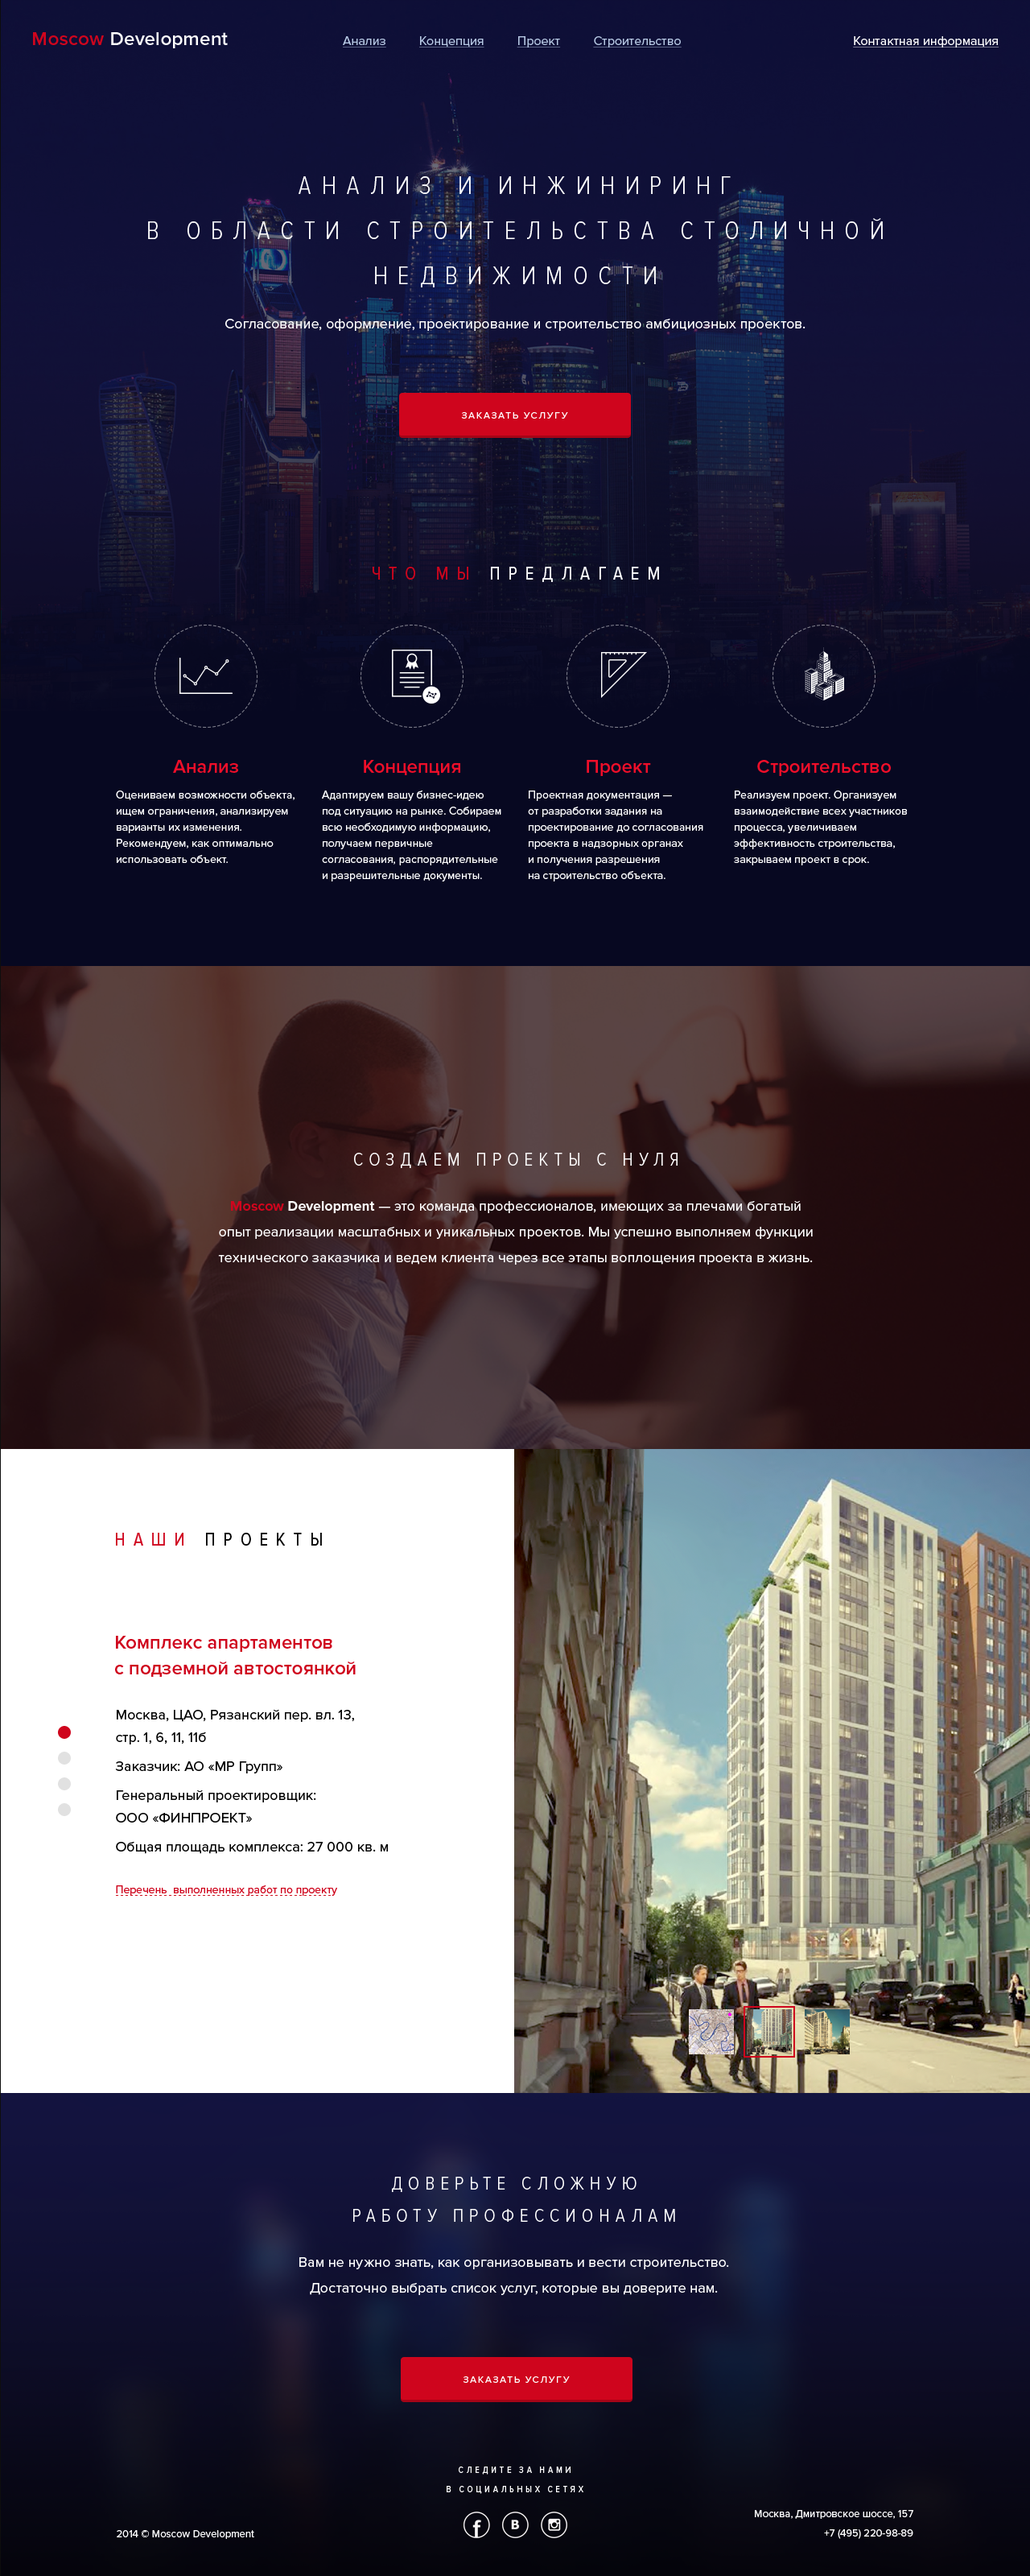
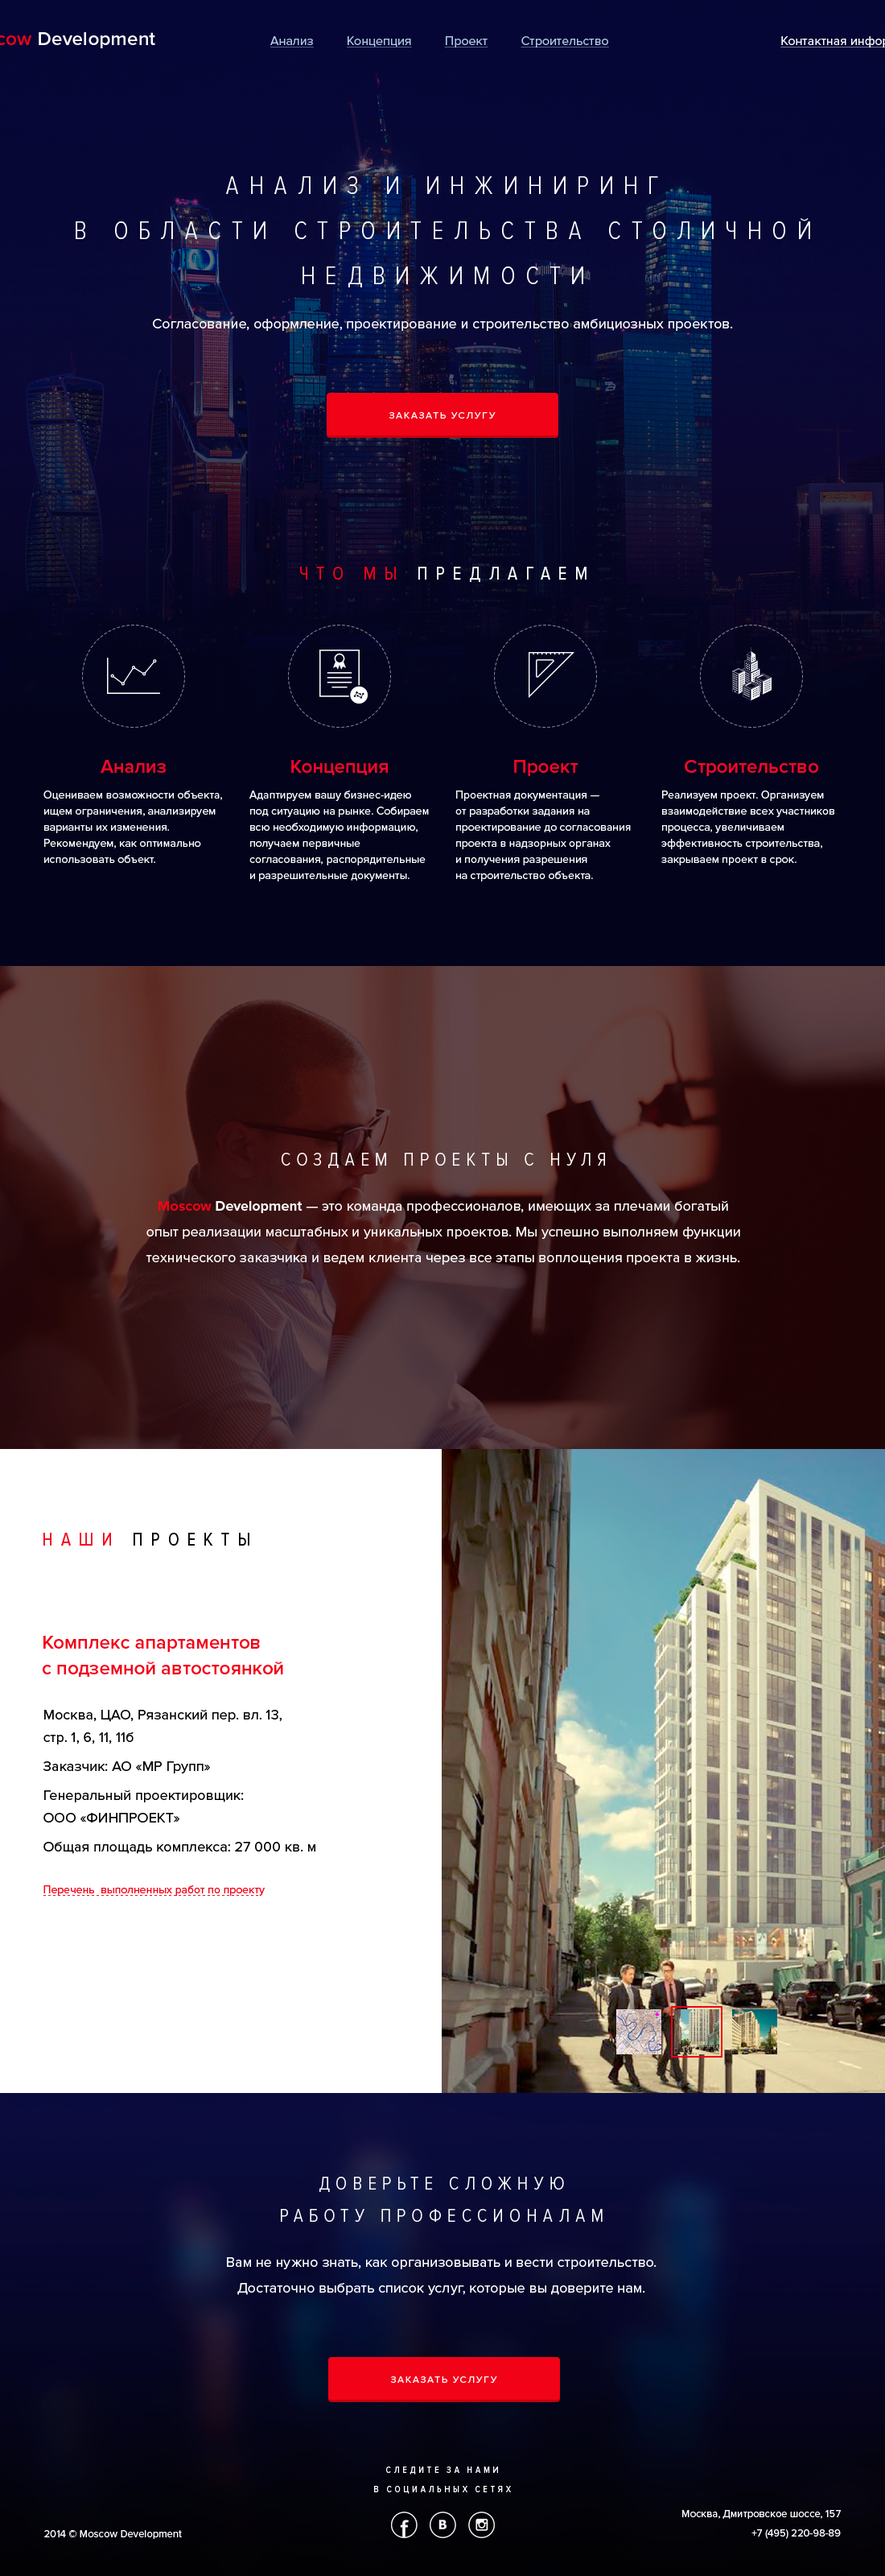
init

diff --git a/index.html b/index.html
@@ -13,6 +13,7 @@
   <link href="./css/slick.css" rel="stylesheet">
   <link href="./css/slick-theme.css" rel="stylesheet">
   <script src="./js/slick.min.js" type="text/javascript"></script>
+  <script src="./js/app.js" type="text/javascript"></script>
   <script src="./js/pixp.js" type="text/javascript"></script>
   <script src="./js/jquery.placeholder.min.js" type="text/javascript"></script>
 </head>
@@ -140,10 +141,11 @@
                     ООО "ФИНПРОЕКТ"<br>
                     Общая площадь коплекса:27 000 кв.м
                   </div>
-                  <span class="show-portfolio">Перечень выполненных работ по проекту</span>
+                  <span class="show-portfolio dashed">Перечень выполненных работ по проекту</span>
                 </div>
               </div>
               <div class="portfolio-right-block">
+                <div class="close-portfolio"></div>
                 <div class="fotorama" 
                   data-max-width="100%"  
                   data-max-height="100%"
@@ -151,33 +153,49 @@
                   data-fit="cover"
                   data-thumbmargin="12">
                   <img src="./images/photo-portfolio.jpg">
-                  <img src="./images/pf-1.jpg">
+                  <img src="./images/photo-portfolio2.jpg">
+                </div>
+                <div class="portfolio-descr-text">
+                  <ul>
+                    <li>Орагнизация и провдение</li>
+                    <li>Орагнизация и провдение</li>
+                    <li>Орагнизация и провдение</li>
+                    <li>Орагнизация и провдение</li>
+                    <li>Орагнизация и провдение</li>
+                  <ul>
+                  <ul>
+                    <li>Орагнизация и провдение</li>
+                  <ul>
                 </div>
               </div>
             </div>
             <div class="portfolio-item">
               <div class="portfolio-left-block">
                 <div class="portfolio-content slider-left-pos">
-                  <h3 class="portfolio-name">Комплекс апартаментов сподземной автостоянкой</h3>
+                  <h3 class="portfolio-name">Элемент 2 текст текст</h3>
                   <div class="portfolio-text">
-                    Москва, ЦФО, Рязанский пер.вл. 13, стр.1,6,11,11б<br>
-                    Заказчик: АО "МР Групп"<br>
+                    Москва, ЦФО текст,  пер.вл. 13, стр.1,6,11,4545454<br>
+                    Заказчик: АО "МР 4545"<br>
                     Генеральный проектировщик:
-                    ООО "ФИНПРОЕКТ"<br>
+                    ООО "4545"<br>
                     Общая площадь коплекса:27 000 кв.м
                   </div>
-                  <span class="show-portfolio">Перечень выполненных работ по проекту</span>
+                  <span class="show-portfolio dashed">Перечень выполненных работ по проекту</span>
                 </div>
               </div>
               <div class="portfolio-right-block">
+                <div class="close-portfolio"></div>
                 <div class="fotorama" 
                   data-max-width="100%"  
                   data-max-height="100%"
                   data-nav="thumbs"
                   data-fit="cover"
                   data-thumbmargin="12">
+                  <img src="./images/photo-portfolio3.jpg">
                   <img src="./images/photo-portfolio.jpg">
-                  <img src="./images/pf-1.jpg">
+                </div>
+                <div class="portfolio-descr-text">
+                  Текст описание
                 </div>
               </div>
             </div>            
@@ -194,17 +212,28 @@
       arrows:false,
       dots: true,
       dotsClass:'slider-left-pos pagin',
-      afterChange:setLeftPos,
     })
-    setLeftPos();
-    function setLeftPos(){
-      var w = innerWidth/2;
-      var w2 = $('.wrapper').first().width()/2
-      var res = w-w2;
-      var curLeft;
-       $('.slider-left-pos').each(function(key,value){
-       curLeft = $(value).position().left;
-       $(value).css("left",curLeft+res+"px");
+    $('.show-portfolio').click(function(){
+      showPortfolioContent();
+    });
+    $('.close-portfolio').click(function(){
+      showPortfolioContent();
+    });
+    function showPortfolioContent(){
+      var elem = $('.portfolio-descr-text');
+      var textStartAnim = 'Перечень выполненных работ по проекту';
+      var textCompliteAnim = 'Графические материалы';
+      $('.fotorama').fadeToggle({
+        start:function(){
+          elem.hide();
+          $('.show-portfolio').text(textStartAnim);
+        },
+        complete:function(){
+          if($('.fotorama').is(':hidden')){
+            $('.show-portfolio').text(textCompliteAnim);
+            elem.show();    
+          }
+        }
       });
     }
     </script>

diff --git a/css/style.css b/css/style.css
@@ -100,6 +100,17 @@ body {
 .logo {
     float: left;
 }
+.dashed {
+  background: -moz-linear-gradient(left, red, red 60%, transparent 60%);
+  background: -ms-linear-gradient(left, red, red 60%, transparent 60%);
+  background: -o-linear-gradient(left, red, red 60%, transparent 60%);
+  background: -webkit-gradient(linear, 0 0, 100% 0, from(red), color-stop(0.6, red), color-stop(0.6, transparent));
+  background: -webkit-linear-gradient(left, red, red 60%, transparent 60%);
+  background: linear-gradient(left, red, red 60%, transparent 60%);
+  background-size: 10px 1px;
+  background-repeat: repeat-x;
+  background-position: 0 90%;
+}
 /* Header
 -----------------------------------------------------------------------------*/
 .header {
@@ -272,7 +283,7 @@ body {
 
 /*start component portfolio main*/
 .portfolio-main-wrapper{
-  min-height: 300px;
+  min-height: 789px;
 }
 /*end compopnent portfolio main*/
 
@@ -329,6 +340,7 @@ body {
     float: left;
     width: 50%;
     position: relative;
+    min-height: 789px; 
 }
 .portfolio-content {
     padding-left: 95px;
@@ -348,12 +360,6 @@ body {
     line-height: 1.6em;
     margin-bottom: 40px;
 }
-.portfolio-item {
-    
-}
-.portfolio-list{
-    position: relative;
-}
 .portfolio-list .pagin {
     left: 0px;
     position: absolute;
@@ -363,18 +369,34 @@ body {
     float: right;
     width: 50%;
     right: 0;
- 
+    min-height: 789px; 
+    background-color: #f3f3f3;
 }
-
+.portfolio-descr-text ul {
+    list-style-image: url("../images/round.png");
+}
+.portfolio-descr-text ul li{
+  margin-bottom: 30px;
+}
+.close-portfolio{
+  width: 25px;
+  height: 25px;
+  cursor: pointer;
+  background-image: url('../images/close-ico.png');
+  background-repeat: no-repeat;
+  position: absolute;
+  top: 0px;
+  right: 0px;
+  margin-right: 20px;
+  margin-top: 50px;
+}
 .portfolio-item::after {
     clear: both;
     content: "";
     display: block;
 }
 .show-portfolio {
-    border-bottom: 1px dashed;
     color: #cf051d;
-    display: inline-block;
     cursor: pointer;
 }
 .p-slider-pagin {
@@ -393,6 +415,27 @@ body {
     border-color: #cf051d!important;
     
 }
+.portfolio-descr-text{
+  display: none;
+  background-color: #f3f3f3;
+  height: 100%;
+  padding-left: 60px;
+  padding-top: 110px;
+  font-size: 1.2em;
+}
+.slider-left-pos.pagin > li button {
+    background-color: #e1e1e1;
+    border: medium none;
+    border-radius: 100%;
+    font-size: 0;
+    height: 15px;
+    width: 15px;
+    cursor: pointer;
+}
+.slider-left-pos.pagin > li.slick-active button, .slider-left-pos.pagin > li button:hover {
+    background-color: #cf051d;
+}
+
 /*end component portfolio*/
 /* Footer
 -----------------------------------------------------------------------------*/
@@ -570,6 +613,26 @@ body {
     background: url("../images/bottom-bg-main-mini.jpg") no-repeat scroll center top;
     background-size: cover;
   }
+  .portfolio-main-wrapper, .portfolio-left-block, .portfolio-right-block{
+    min-height: 100px;
+  }
+  .portfolio-content {
+    padding-left: 60px;
+  }
+  .protfolio-head{
+    padding-left: 50px;
+    font-size:1.4em;
+  }
+  .portfolio-name {
+      color: #cf051d;
+      font-family: ProximaNova-Semibold;
+      font-size: 1.5em;
+      margin-top: 150px;
+      padding-bottom: 20px;
+  }
+  .portfolio-text{
+    font-size: 1.1em;
+  }
 }
 @media (max-width: 860px){
   .footer-cell, .footer-cell.bottom-adres, .footer-cell.coop{
@@ -584,6 +647,48 @@ body {
   .footer-cell.social-icons > div{
     display: block;
     width: 100%;
+  }
+}
+@media (max-width: 814px){
+  .protfolio-head{
+    margin-top: 20px;
+  }
+  .portfolio-name{
+    margin-top: 50px;
+    font-size: 1.3em;
+  }
+  .portfolio-list .pagin{
+    top: 100px;
+  }
+  .portfolio-content {
+      padding-left: 55px;
+      width: 75%;
+  }
+}
+@media (max-width: 660px){ 
+  .portfolio-left-block{
+      float: none;
+      width: 100%;
+      margin-bottom: 10px;
+  }
+  .portfolio-right-block{
+      float: none;
+      width: 100%; 
+  }
+  .portfolio-content{
+    width: 100%;
+    text-align: center;
+    padding-left: 0px;
+  }
+  .protfolio-head{
+    position: unset;
+    text-align: center;
+  }
+  .portfolio-name{
+    margin-top: 20px;
+  }
+  .portfolio-text{
+    margin-bottom: 20px;
   }
 }
 @media (max-width: 500px){

diff --git a/js/app.js b/js/app.js
@@ -1,0 +1,26 @@
+_app = function(){
+  return{
+    setLeftPos:function(){
+      var w = innerWidth/2;
+      var w2 = $('.wrapper').first().width()/2
+      var res = w-w2;
+      var curLeft;
+       $('.slider-left-pos').each(function(key,value){
+          curLeft = $(value).position().left;
+          $(value).css("left",res+"px");
+        });
+    }
+  }
+};
+$(document).ready(function(){
+   _app().setLeftPos();
+
+  window.onresize = function(){
+
+    _app().setLeftPos();
+
+  }
+})
+
+
+
